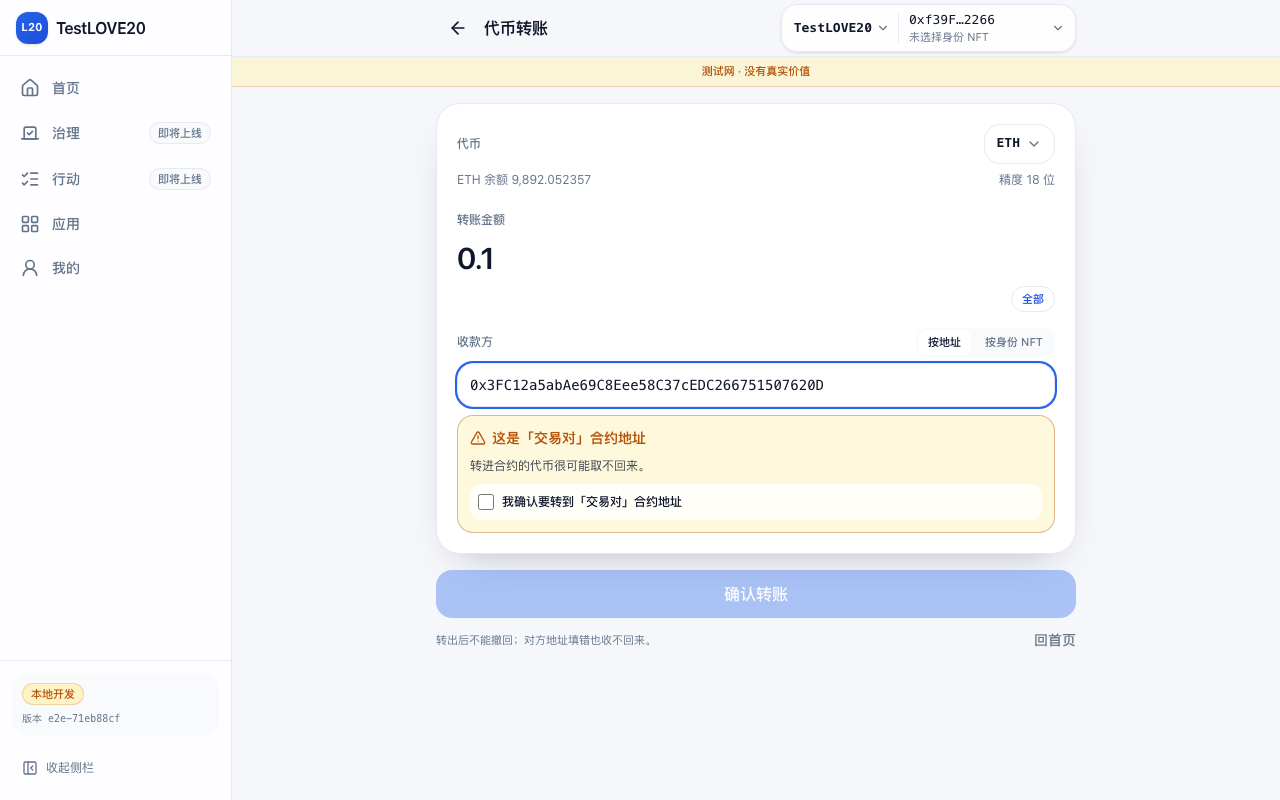
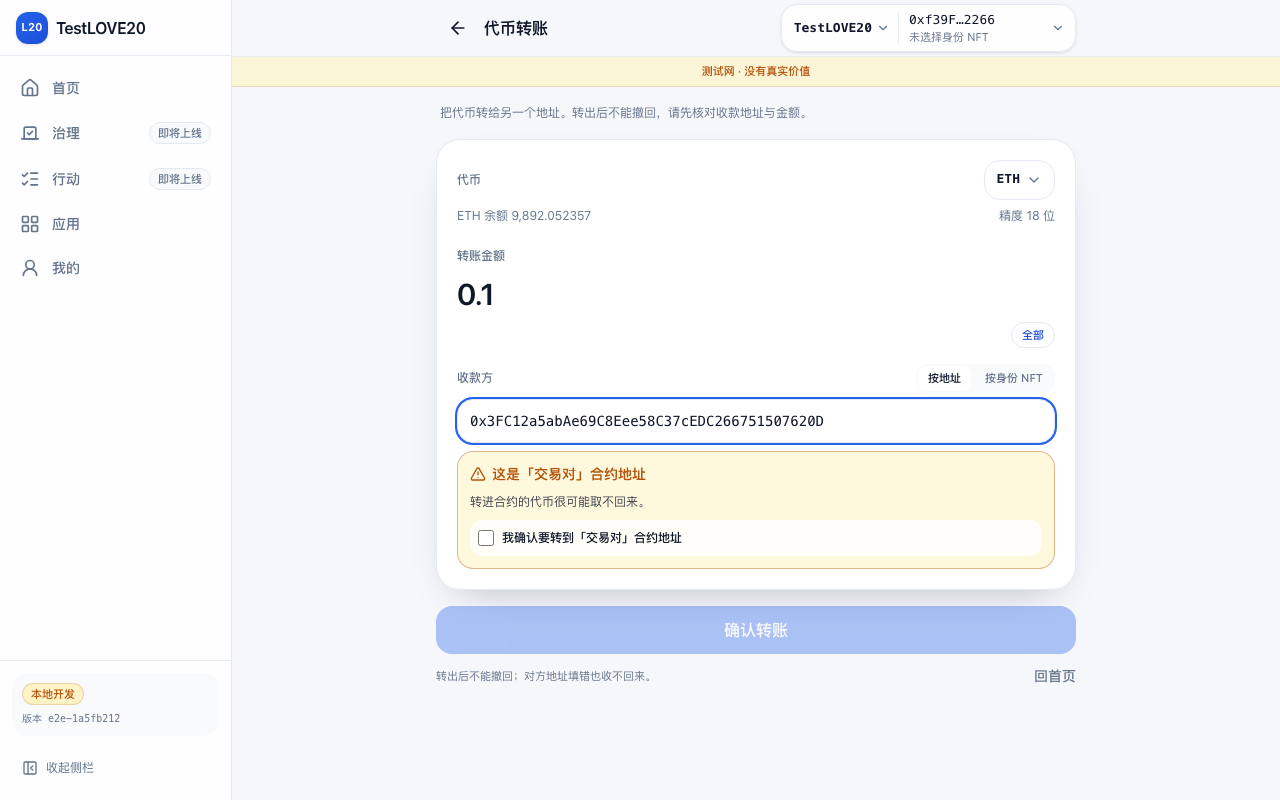
fix(transfer): EOA 不被误判为合约；自定义代币只自动选中一次；补页面说明行
- useBytecode 对 EOA 返回 null：自定义代币校验与收款方合约警告都按 data == null 处理，
  组件测试断言普通地址不出现「这个地址是一个合约」。
- 自定义代币解析后的 token 对象每次 render 重建，改用 key ref 每个地址只自动选中一次，
  用户之后仍可切到原生币/社区代币。
- 卡片上方补一句页面说明（copy.transfer.intro），刷新 390×844 / 1280×800 浅深色截图。
- 全量 e2e 65/65、transfer spec 10/10、unit 420、build 159.6 kB gzip。

diff --git a/src/features/transfer-token/ui/transfer-token-panel.tsx b/src/features/transfer-token/ui/transfer-token-panel.tsx
@@ -1,4 +1,4 @@
-import { useEffect, useState, type ReactNode } from 'react';
+import { useEffect, useRef, useState, type ReactNode } from 'react';
 import { Link } from 'react-router-dom';
 import { useAccount, useBytecode } from 'wagmi';
 import { AlertTriangle, Check, RefreshCw } from '@/shared/ui/icons';
@@ -140,7 +140,8 @@ export function TransferTokenPanel({
     address: recipientAddress,
     query: { enabled: recipientAddress !== undefined },
   });
-  const hasBytecode = bytecode.data === undefined ? undefined : bytecode.data !== '0x';
+  // viem returns undefined/null for an address without code (wagmi may surface null).
+  const hasBytecode = bytecode.data == null ? undefined : bytecode.data !== '0x';
   const protection = decideRecipientProtection(recipientAddress ?? '', hasBytecode);
   const protectionLabel =
     protection.kind === 'known' ? knownContractLabel(protection.labelKey) : undefined;
@@ -149,18 +150,19 @@ export function TransferTokenPanel({
     balance.refetch();
   });
 
-  // A resolved custom token becomes the selection immediately (the picker closes).
+  // A resolved custom token becomes the selection exactly once per address: the
+  // user can still pick another token afterwards (the resolved token object is
+  // rebuilt every render, so the key — not the object — guards the effect).
   const customTokenKey =
     catalog.custom.token !== undefined ? transferTokenKey(catalog.custom.token) : '';
-  /* eslint-disable react-hooks/set-state-in-effect -- selection follows a resolved chain read */
+  const appliedCustomKey = useRef('');
   useEffect(() => {
     const resolved = catalog.custom.token;
     if (catalog.custom.status !== 'ok' || resolved === undefined) return;
-    setSelectedToken((previous) =>
-      previous !== undefined && transferTokenKey(previous) === customTokenKey ? previous : resolved,
-    );
+    if (appliedCustomKey.current === customTokenKey) return;
+    appliedCustomKey.current = customTokenKey;
+    setSelectedToken(resolved);
   }, [catalog.custom.status, catalog.custom.token, customTokenKey]);
-  /* eslint-enable react-hooks/set-state-in-effect */
 
   // A different recipient invalidates the previous contract acknowledgement.
   /* eslint-disable react-hooks/set-state-in-effect */
@@ -186,6 +188,13 @@ export function TransferTokenPanel({
     (mode === 'address'
       ? addressCheck === 'ok' && (protection.kind !== 'known' || knownAck)
       : identityResolved && identityAck);
+
+  const addressInvalid = addressCheck !== 'ok' && addressCheck !== 'empty';
+  const identityInvalid =
+    identity.status === 'invalid' ||
+    identity.status === 'not-found' ||
+    identity.status === 'self' ||
+    identity.status === 'error';
 
   const amountError =
     parsed.kind === 'invalid'
@@ -360,6 +369,8 @@ export function TransferTokenPanel({
           </div>
         </div>
       ) : null}
+
+      <p className="px-1 text-xs leading-5 text-muted">{copy.transfer.intro}</p>
 
       <div className="rounded-3xl border border-line bg-surface p-5 shadow-soft">
         <div>
@@ -583,19 +594,11 @@ export function TransferTokenPanel({
             autoCapitalize="off"
             spellCheck={false}
             disabled={busy}
-            aria-invalid={
-              mode === 'address'
-                ? addressCheck !== 'ok' && addressCheck !== 'empty'
-                : identity.status !== 'ok' &&
-                  identity.status !== 'idle' &&
-                  identity.status !== 'reading'
-            }
+            aria-invalid={mode === 'address' ? addressInvalid : identityInvalid}
             className={cn(
               'mt-1.5 h-11 w-full rounded-2xl border bg-surface px-3 font-mono text-sm text-foreground',
               'outline-none focus:ring-2 focus:ring-brand',
-              (mode === 'address'
-                ? addressCheck !== 'ok' && addressCheck !== 'empty'
-                : identityError !== null) && addressCheck !== 'empty'
+              (mode === 'address' ? addressInvalid : identityInvalid)
                 ? 'border-danger/50'
                 : 'border-line',
             )}

diff --git a/src/features/transfer-token/ui/transfer-token-panel.test.tsx b/src/features/transfer-token/ui/transfer-token-panel.test.tsx
@@ -23,8 +23,10 @@ const { identityState, submitMock } = vi.hoisted(() => ({
 
 vi.mock('wagmi', () => ({
   useAccount: () => ({ address: SELF }),
+  // A real RPC returns undefined/null for an EOA (wagmi surfaces null) and the
+  // deployed bytecode for a contract; both must not be mistaken for each other.
   useBytecode: ({ address }: { address?: string }) => ({
-    data: address !== undefined && address.toLowerCase() === PAIR.toLowerCase() ? '0x6080' : '0x',
+    data: address !== undefined && address.toLowerCase() === PAIR.toLowerCase() ? '0x6080' : null,
   }),
 }));
 
@@ -126,6 +128,9 @@ describe('TransferTokenPanel 按地址', () => {
 
     fillRecipient(OTHER);
     expect(submitButton()).toBeEnabled();
+    // A plain wallet must never show the contract-recipient warning.
+    expect(screen.queryByTestId('transfer-contract-warning')).toBeNull();
+    expect(screen.queryByTestId('transfer-protection')).toBeNull();
 
     fillAmount('0');
     expect(screen.getByTestId('transfer-amount-error')).toHaveTextContent('金额必须大于 0');

diff --git a/ledger/worklog/202611/13-2104-76b2-应用-代币转账.md b/ledger/worklog/202611/13-2104-76b2-应用-代币转账.md
@@ -60,6 +60,9 @@ owner 要求新增「代币转账」应用，功能覆盖旧库同页：`../LOVE
 - 坑 2：anvil 间隔出块让 base fee 逐块下降，原生转账的 fee 每次运行都不同；因此原生用例的三线可比值 = 收款方 ETH 终态（gas 无关）+ 页面回执金额，发送方扣款只做 `amount + fee` 恒等式校验，页面从不展示扣费后余额。
 - 坑 3：`E2E_PORT` 只改 preview 端口，e2e 文件锁仍在 `../anvil/.anvil/8555/e2e.lock`，所以与 Lead 的 4173 运行仍互斥（本次串行跑完才继续）。
 - 门禁：`pnpm typecheck`、`pnpm lint`、`pnpm test`（66 files / **420 passed**，较基线 +22）、`VITE_ENV=dev pnpm build` 入口 **159.6 kB gzip**（预算 161 kB）全绿；`pnpm abis:check` 不适用（未改 ABI/地址簿）。
+- 坑 4（截图/组件测试抓到）：`useBytecode` 对 EOA 返回 `data === null`（不是 `undefined` 也不是 `'0x'`）。① 自定义代币校验若只判 `undefined | '0x'`，EOA 会落到「读不到 symbol」；② 收款方合约警告若用 `data !== '0x'`，普通地址会误显示「这个地址是一个合约」（填写态截图里可见）。两处均已改为「`data == null` 视为无 bytecode / 无合约」，并补了组件测试断言 EOA 不出现合约警告。
+- 坑 5（自查）：自定义代币解析成功后 token 对象每次 render 都是新引用，effect 若依赖对象会把用户手动选择的其它代币反复覆盖回自定义代币；改为用 `useRef` 记录「已自动选中的 key」，每个自定义地址只自动选中一次。
+- 全量 e2e（同一条 8566 链、`E2E_PORT=4174`）：**65 passed (2.5m)**（swap 9 / apps 3 / home-my-nft 15 / home-reminders 8 / mint 6 / airdrop 4 / about 3 / smoke 3 / theme 3 / transfer 10 / tx-recovery 1），证明 token-picker 提升与目录新增没有回归；修完两处边界后 transfer spec 再跑 **10 passed**，截图重生成。
 
 
 <!-- Pitfalls and evidence: with revision + file:line or symbol names -->
